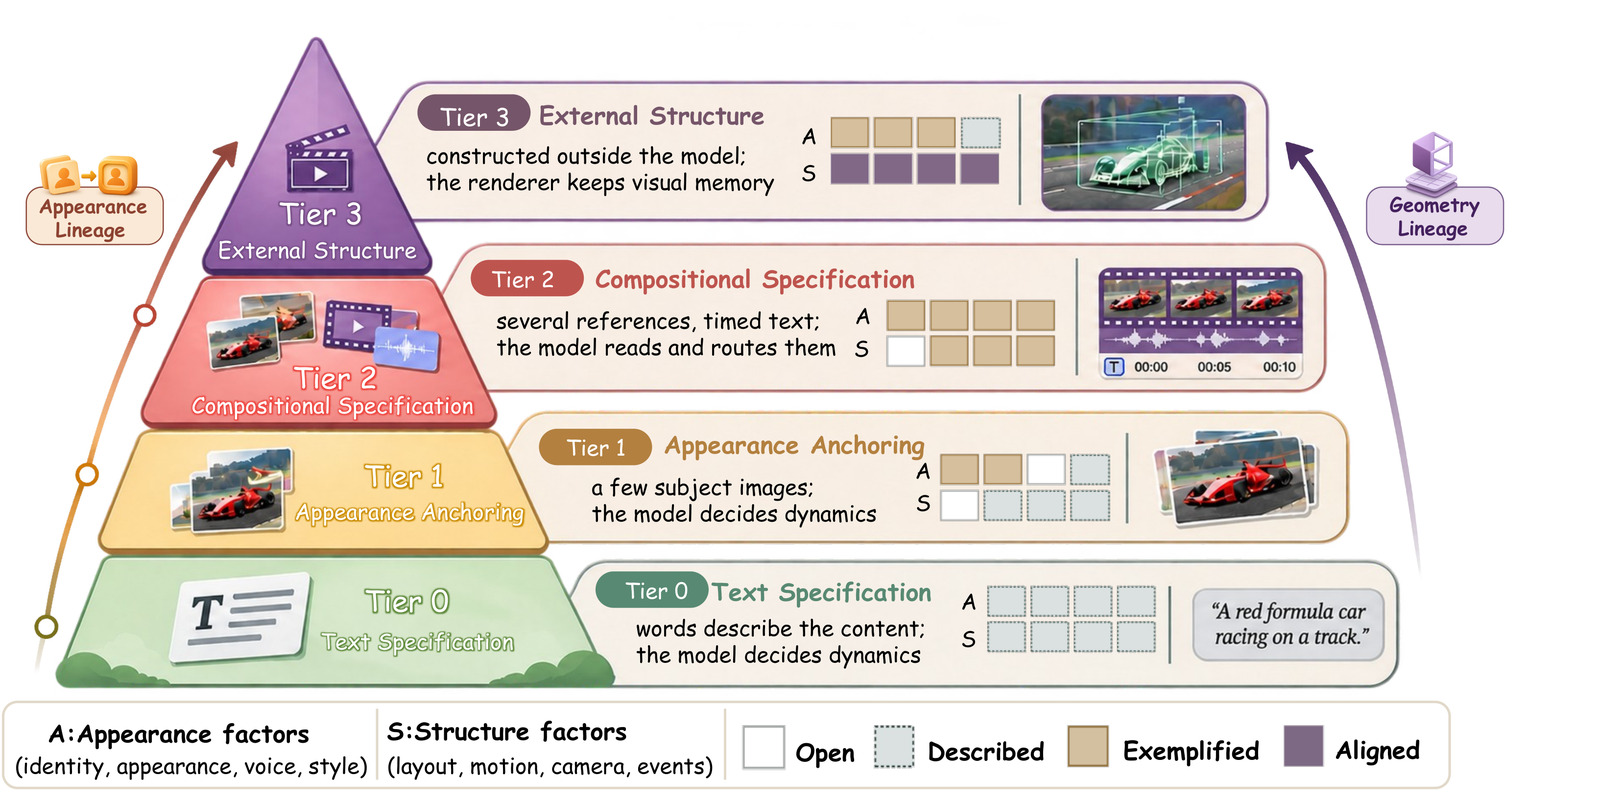
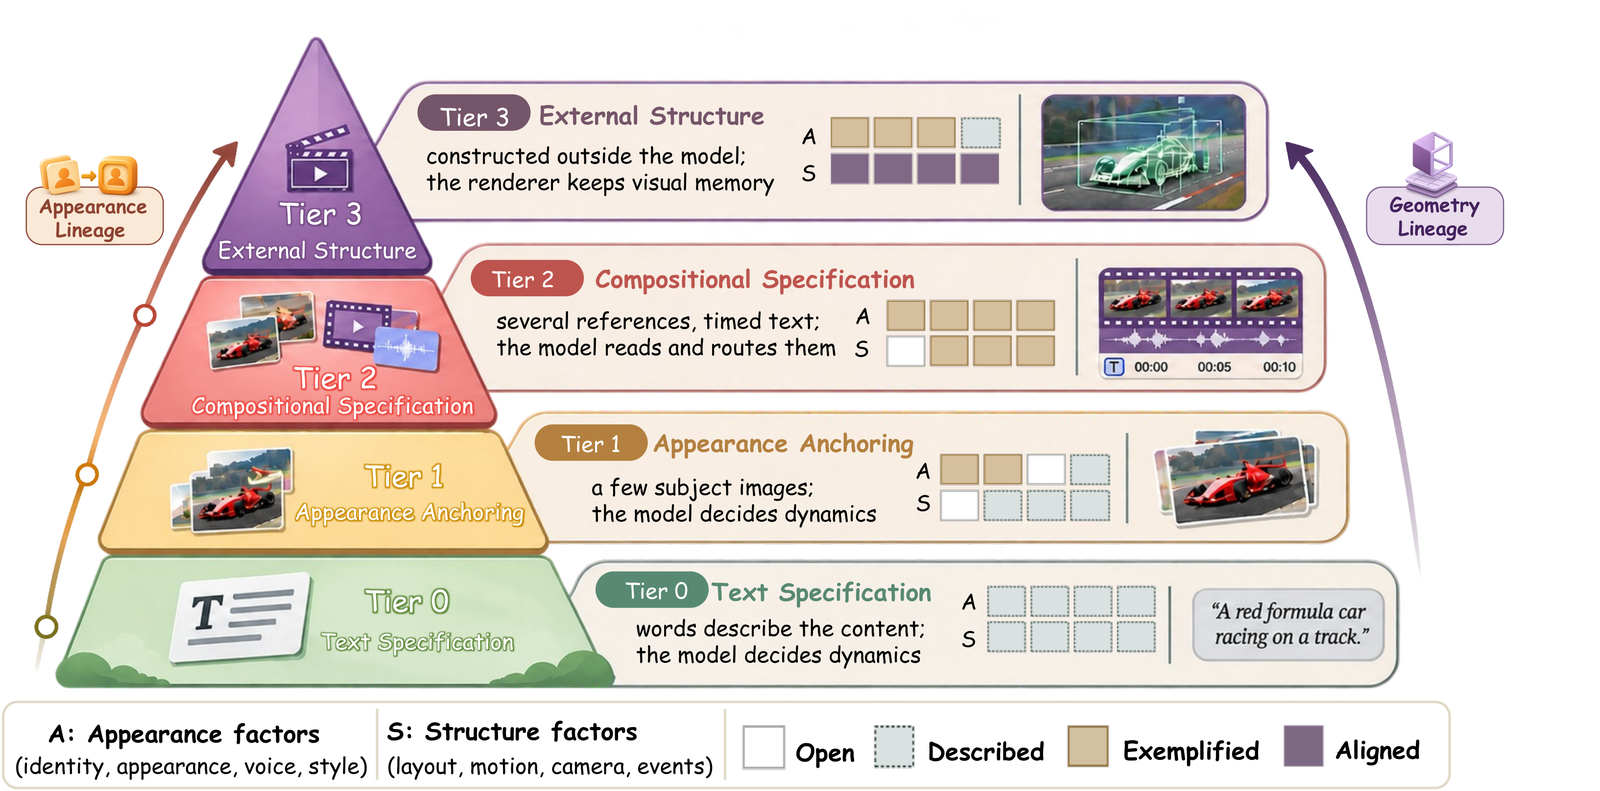
Add Fangqiang Ding and Shaofeng Zhang to Senior Authors and update survey BibTeX

Changed region(s): [[0.3125, 0.5158, 0.5938, 0.6068], [0.0312, 0.9102, 0.2188, 0.9406], [0.25, 0.9102, 0.4062, 0.9406]]

diff --git a/docs/index.html b/docs/index.html
@@ -334,6 +334,8 @@
           <li>Wulin Xie<sup>4</sup></li>
           <li><a href="http://www.shuwu.name/" target="_blank" rel="noopener">Shu Wu</a><sup>4</sup><span class="r-sen">◆</span></li>
           <li><a href="https://yanrockhuang.github.io/" target="_blank" rel="noopener">Yan Huang</a><sup>4</sup><span class="r-sen">◆</span></li>
+          <li><a href="https://fangqiangding.com/" target="_blank" rel="noopener">Fangqiang Ding</a><sup>2</sup><span class="r-sen">◆</span></li>
+          <li><a href="https://sherrylone.github.io/" target="_blank" rel="noopener">Shaofeng Zhang</a><sup>7</sup><span class="r-sen">◆</span></li>
           <li><a href="https://research.cuhk.edu.hk/en/persons/wai-lam/" target="_blank" rel="noopener">Wai Lam</a><sup>1</sup><span class="r-sen">◆</span></li>
         </ul>
 
@@ -644,7 +646,7 @@
   title   = {Video Models as Generative Renderers: Foundations, Interfaces, Systems, and Beyond},
   author  = {Li, Xinye and Zhang, Liuzhou and Sun, Te and Luo, Shipeng and Lin, Lingshuai
              and Jin, Yijie and Lang, Zirui and Fang, Guian and others
-             and Wu, Shu and Huang, Yan and Lam, Wai},
+             and Wu, Shu and Huang, Yan and Ding, Fangqiang and Zhang, Shaofeng and Lam, Wai},
   journal = {arXiv preprint},
   year    = {2026}
 }</pre>

diff --git a/scripts/sync_from_survey.py b/scripts/sync_from_survey.py
@@ -348,7 +348,7 @@ def render_readme(systems: list[dict], benches: list[dict], cited_count: int) ->
         "```bibtex",
         "@article{li2026generativerenderers,",
         "  title   = {Video Models as Generative Renderers: Foundations, Interfaces, Systems, and Beyond},",
-        "  author  = {Li, Xinye and Zhang, Liuzhou and Sun, Te and Luo, Shipeng and Lin, Lingshuai and Jin, Yijie and Lang, Zirui and Fang, Guian and others and Wu, Shu and Huang, Yan and Lam, Wai},",
+        "  author  = {Li, Xinye and Zhang, Liuzhou and Sun, Te and Luo, Shipeng and Lin, Lingshuai and Jin, Yijie and Lang, Zirui and Fang, Guian and others and Wu, Shu and Huang, Yan and Ding, Fangqiang and Zhang, Shaofeng and Lam, Wai},",
         "  journal = {arXiv preprint},",
         "  year    = {2026}",
         "}",
@@ -408,7 +408,7 @@ def main() -> None:
     (HUB_DIR / "citation.bib").write_text(
         "@article{li2026generativerenderers,\n"
         "  title   = {Video Models as Generative Renderers: Foundations, Interfaces, Systems, and Beyond},\n"
-        "  author  = {Li, Xinye and Zhang, Liuzhou and Sun, Te and Luo, Shipeng and Lin, Lingshuai and Jin, Yijie and Lang, Zirui and Fang, Guian and others and Wu, Shu and Huang, Yan and Lam, Wai},\n"
+        "  author  = {Li, Xinye and Zhang, Liuzhou and Sun, Te and Luo, Shipeng and Lin, Lingshuai and Jin, Yijie and Lang, Zirui and Fang, Guian and others and Wu, Shu and Huang, Yan and Ding, Fangqiang and Zhang, Shaofeng and Lam, Wai},\n"
         "  journal = {arXiv preprint},\n"
         "  year    = {2026}\n"
         "}\n",

diff --git a/README.md b/README.md
@@ -149,7 +149,7 @@ Want to add a new generative renderer, proxy benchmark, or streaming system? Ope
 ```bibtex
 @article{li2026generativerenderers,
   title   = {Video Models as Generative Renderers: Foundations, Interfaces, Systems, and Beyond},
-  author  = {Li, Xinye and Zhang, Liuzhou and Sun, Te and Luo, Shipeng and Lin, Lingshuai and Jin, Yijie and Lang, Zirui and Fang, Guian and others and Wu, Shu and Huang, Yan and Lam, Wai},
+  author  = {Li, Xinye and Zhang, Liuzhou and Sun, Te and Luo, Shipeng and Lin, Lingshuai and Jin, Yijie and Lang, Zirui and Fang, Guian and others and Wu, Shu and Huang, Yan and Ding, Fangqiang and Zhang, Shaofeng and Lam, Wai},
   journal = {arXiv preprint},
   year    = {2026}
 }
